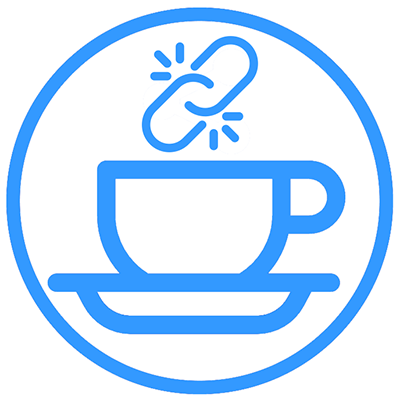
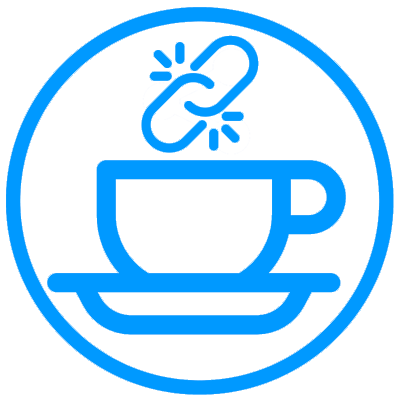
minor css revisions; final color palette

Changed region(s): [[0.0, 0.0, 0.99, 0.99]]

diff --git a/public/assets/css/style.css b/public/assets/css/style.css
@@ -7,9 +7,9 @@
   padding: 20px;
   height: 95%;
   width: 95%;
-  border-width: 5px;
+  border-width: 3px;
   border-style: solid;
-  border-color: #4885ed;
+  border-color: #003366;
   border-radius: 25px;
   position: absolute;
   top: 0;
@@ -22,12 +22,14 @@
 .container2{
   display: grid;
   margin: auto;
+  margin-top: 10px;
+  margin-bottom: 10px;
   padding: 10px;
   height: 95%;
   width: 95%;
-  border-width: 5px;
+  border-width: 3px;
   border-style: solid;
-  border-color: #4885ed;
+  border-color: #003366;
   border-radius: 25px;
   position: relative;
   top: 0;
@@ -39,23 +41,19 @@
 
 .row {
     text-align: center;
-    font-family: verdana;
-    font-size: 22px;
-
 }
 
 /*  SECTIONS  */
 
 .section {
   clear: both;
-  padding: 10px;
 }
 
 #sectionStyle {
   padding: 10px;
   border-width: 0.5px;
   border-style: solid;
-  border-color: gray;
+  border-color: lightgray;
   border-radius: 15px;
   margin-bottom: 10px;
 }
@@ -124,33 +122,26 @@ form {
 /* BUTTON STYLING */
 
 button {
-    background: #4885ed;
+    background: #0060C0;
     text-decoration: none;
     color: white;
-    height: 60px;
-    width: 275px;
+    height: 40px;
+    width: 260px;
     margin: 4px 2px;
     border-radius: 25px;
-    padding: 10px 20px;
+    padding: 5px 20px;
     transition: all 0.3s ease 0s;
     text-align: center;
-    font-family: 'Roboto Condensed', sans-serif;
-    font-size: 22px;
+    font-family: 'Roboto', sans-serif;
+    font-size: 17px;
 }
 button:hover {
-  box-shadow: inset 0 0 0 5px #3071A9;
+  box-shadow: inset 0 0 0 5px #198CFF;
 }
 
-
-#buttonStyle, #home-address, #current-address, #custom-address, #logoff, #custom-submit, #custom-input, {
-   text-align: center;
-    text-decoration: none;
-    font-family: 'Roboto Condensed', sans-serif;
-    font-size: 18px;
-}
 
 .chatbutton {
-  background-color: #4885ed;
+  background-color: #0060C0;
     border: none;
     color: white;
     height: 30px;
@@ -163,14 +154,14 @@ button:hover {
     cursor: pointer;
     border-radius: 25px;
     padding: 5px 10px;
-    font-family: 'Oswald', sans-serif;
+    font-family: 'Roboto', sans-serif;
 }
 
 /* STYLING FOR LOGO */
 
 #imgStyle {
   text-align: center;
-  max-width: 300px; 
+  max-width: 290px; 
 }
 
 #imgStyle2 {
@@ -181,33 +172,40 @@ button:hover {
 #logoStyle {
   font-family: 'Alfa Slab One', cursive;
   font-size: 36px;
-  color: #4885ed;
+  color: #0060C0;
   opacity: 0.95;
 }
 
 /* FONT STYLES */
 
 #fontStyle {
-  font-family: 'Alfa Slab One', cursive;
-  font-size: 40px;
-  color: #4885ed;
-  opacity: 0.95;
+font-family: 'Alfa Slab One', cursive;
+margin-bottom: -30px;
+font-size: 82px;
+color: #0060C0;
+}
+
+#fontStyle1 {
+font-family: 'Alfa Slab One', cursive;
+margin-top: 0px;
+font-size: 55px;
+color: #0060C0;
 }
 
 #fontStyle2 {
-  font-family: 'Alfa Slab One', cursive;
-  font-size: 20px;
-  color: #4885ed;
-  opacity: 0.95;
+font-family: 'Alfa Slab One', cursive;
+font-size: 44px;
+margin-bottom: 10px;
+color: #198CFF;
 }
 
 #fontStyle3 {
   font-family: 'Alfa Slab One', cursive;
-  font-size: 16px;
+  font-size: 22px;
   text-align: center;
-  color: #4885ed;
+  color: #198CFF;
   opacity: 0.95;
-  margin-bottom: 5px;
+
 }
 
 /* ANIMATION */
@@ -235,6 +233,10 @@ button:hover {
     opacity: 1;
   }
 }
+
+
+
+
 
 .first-fade {
   opacity: 0;
@@ -270,8 +272,9 @@ button:hover {
   overflow: auto;
   padding: 5px;
   background-color: #ffffff;
-  font-family: verdana;
+font-family: 'Roboto', sans-serif;
   font-size: 14px;
+  color: #003366;
   border-radius: 15px;
 }
 
@@ -291,7 +294,7 @@ button:hover {
 #reviewsBox {
   padding: 5px;
   background-color: #ffffff;
-  font-family: verdana;
+
   font-size: 14px;
 /*  height: 75px;*/
 
@@ -302,7 +305,7 @@ button:hover {
 #users-online {
   padding: 5px;
   background-color: #ffffff;
-  font-family: verdana;
+font-family: 'Roboto', sans-serif;
   font-size: 14px;
   border-radius: 15px;
 }
@@ -320,14 +323,20 @@ button:hover {
 /* INPUT, FORM STYLE 
 */
 #myForm, #custom-input, #new-user-form {
-  font-family: verdana;
+font-family: 'Alfa Slab One', cursive;
+color: #0060C0;
   text-align: center;
-  font-size: 14px;
+  font-size: 16px;
 }
 
 #userName, #userPass, #newUserName, #newUserPass, #newUserAddress, #custom-input{
+  
+  font-family: 'Roboto', sans-serif;
+  font-size: 14px;
+  color: #003366;
   border-radius: 15px;
   border-width: 0.5px;
+  margin-top: 10px;
   margin-bottom: 20px;
   padding: 5px;
 }

diff --git a/public/index.html b/public/index.html
@@ -10,8 +10,8 @@
 		<!-- CSS -->
 		<link rel="stylesheet" href="./assets/css/style.css" type="text/css"/>
 		<!-- GOOGLE FONT -->
+		<link href="https://fonts.googleapis.com/css?family=Roboto:500" rel="stylesheet">
 		<link href="https://fonts.googleapis.com/css?family=Alfa+Slab+One" rel="stylesheet">
-		<link href="https://fonts.googleapis.com/css?family=Roboto+Condensed" rel="stylesheet">
 
 	</head>
 	<body>
@@ -22,17 +22,18 @@
 			
 			<!-- LOGO GOES HERE -->
 			<div class="row">
-				<div class="first-fade">
+				<div class="">
 					<img src="./assets/images/coffeelogoMed.png" id="imgStyle">
 				</div>
 			</div>
-			<div class="row" id="fontStyle">
-				<div class="second-fade">coffee connect</div>
+			<div class="row">
+				<div class="" id="fontStyle">coffee</div>
+				<div class="" id="fontStyle2">connection</div>
 			</div>
 			
 			<!-- BUTTON TO LOGIN PAGE -->
 			<div class="row">
-				<div class="second-fade">
+				<div class="">
 					<div class="row">
 						<a href="welcome"><button>log in</button></a>
 					</div>
@@ -41,7 +42,7 @@
 
 			<!-- BUTTON TO NEW USER PAGE -->
 			<div class="row">
-				<div class="second-fade">
+				<div class="">
 					<div class="row">
 						<a href="register"><button>new user</button></a>
 					</div>

diff --git a/public/results.html b/public/results.html
@@ -12,6 +12,7 @@
 		<!-- GOOGLE FONT -->
 		<link href="https://fonts.googleapis.com/css?family=Alfa+Slab+One" rel="stylesheet">
 		<link href="https://fonts.googleapis.com/css?family=Roboto+Condensed" rel="stylesheet">
+		<link href="https://fonts.googleapis.com/css?family=Abel|Days+One|Merriweather+Sans|Share" rel="stylesheet">
 
 	</head>
 	<body>
@@ -20,7 +21,7 @@
 		<div class="container2">
 			<div class="section group">
 				<div class="col span_5_of_5">
-					<div class="row" id="fontStyle">let's get coffee!</div>
+					<div class="row" id="fontStyle1">let's meet!</div>
 				</div>
 			</div>	
 
@@ -47,7 +48,7 @@
 						</div>
 				<!-- THIS SHOWS WHO'S ONLINE -->
 					<br>
-					<br>
+
 					<div id="fontStyle3">who's online?</div>			
 					<div id="users-online">
 					<!-- THIS SPACE LEFT BLANK -->

diff --git a/public/welcome.html b/public/welcome.html
@@ -12,6 +12,7 @@
 		<!-- GOOGLE FONT -->
 		<link href="https://fonts.googleapis.com/css?family=Alfa+Slab+One" rel="stylesheet">
 		<link href="https://fonts.googleapis.com/css?family=Roboto+Condensed" rel="stylesheet">
+		<link href="https://fonts.googleapis.com/css?family=Abel|Days+One|Merriweather+Sans|Share" rel="stylesheet">
 		
 	</head>
 	<body>
@@ -19,9 +20,9 @@
 		<!-- ONE CONTAINER TO BIND THEM ALL -->
 		<div class="container">
 
-			<div class="row" id="fontStyle">welcome back!</div>
+			<div class="row" id="fontStyle1">welcome back!</div>
 
-			<div class="row" id="fontStyle2">it's good to see you again.</div>
+			<div class="row" id="fontStyle3">nice to see you again.</div>
 			<div class="row">
 
 			<!-- THIS IS A SUBMISSION FORM FOR REGISTERED USERS TO LOGIN -->

diff --git a/public/location.html b/public/location.html
@@ -12,6 +12,7 @@
 		<!-- GOOGLE FONT -->
 		<link href="https://fonts.googleapis.com/css?family=Alfa+Slab+One" rel="stylesheet">
 		<link href="https://fonts.googleapis.com/css?family=Roboto+Condensed" rel="stylesheet">
+		<link href="https://fonts.googleapis.com/css?family=Abel|Days+One|Merriweather+Sans|Share" rel="stylesheet">
 
 
 	</head>
@@ -19,7 +20,7 @@
 		<!-- ONE CONTAINER TO BIND THEM ALL -->
 		<div class="container">
 
-			<div class="row" id="fontStyle">where are you?</div>
+			<div class="row" id="fontStyle1">where are you?</div>
 
 			<!-- USE HOME ADDRESS -->
 			<div class="row">

diff --git a/public/register.html b/public/register.html
@@ -20,10 +20,10 @@
 		<!-- ONE CONTAINER TO BIND THEM ALL -->
 		<div class="container">
 
-			<div class="row" id="fontStyle">hi there!</div>
+			<div class="row" id="fontStyle1">hi there!</div>
 
 			<!-- THIS IS REGISTRATION FORM FOR NEW USERS -->
-			<div class="row" id="fontStyle2">please create an account</div>
+			<div class="row" id="fontStyle3">please create an account</div>
 			<div class="row">
 				
 				<form id="new-user-form">
